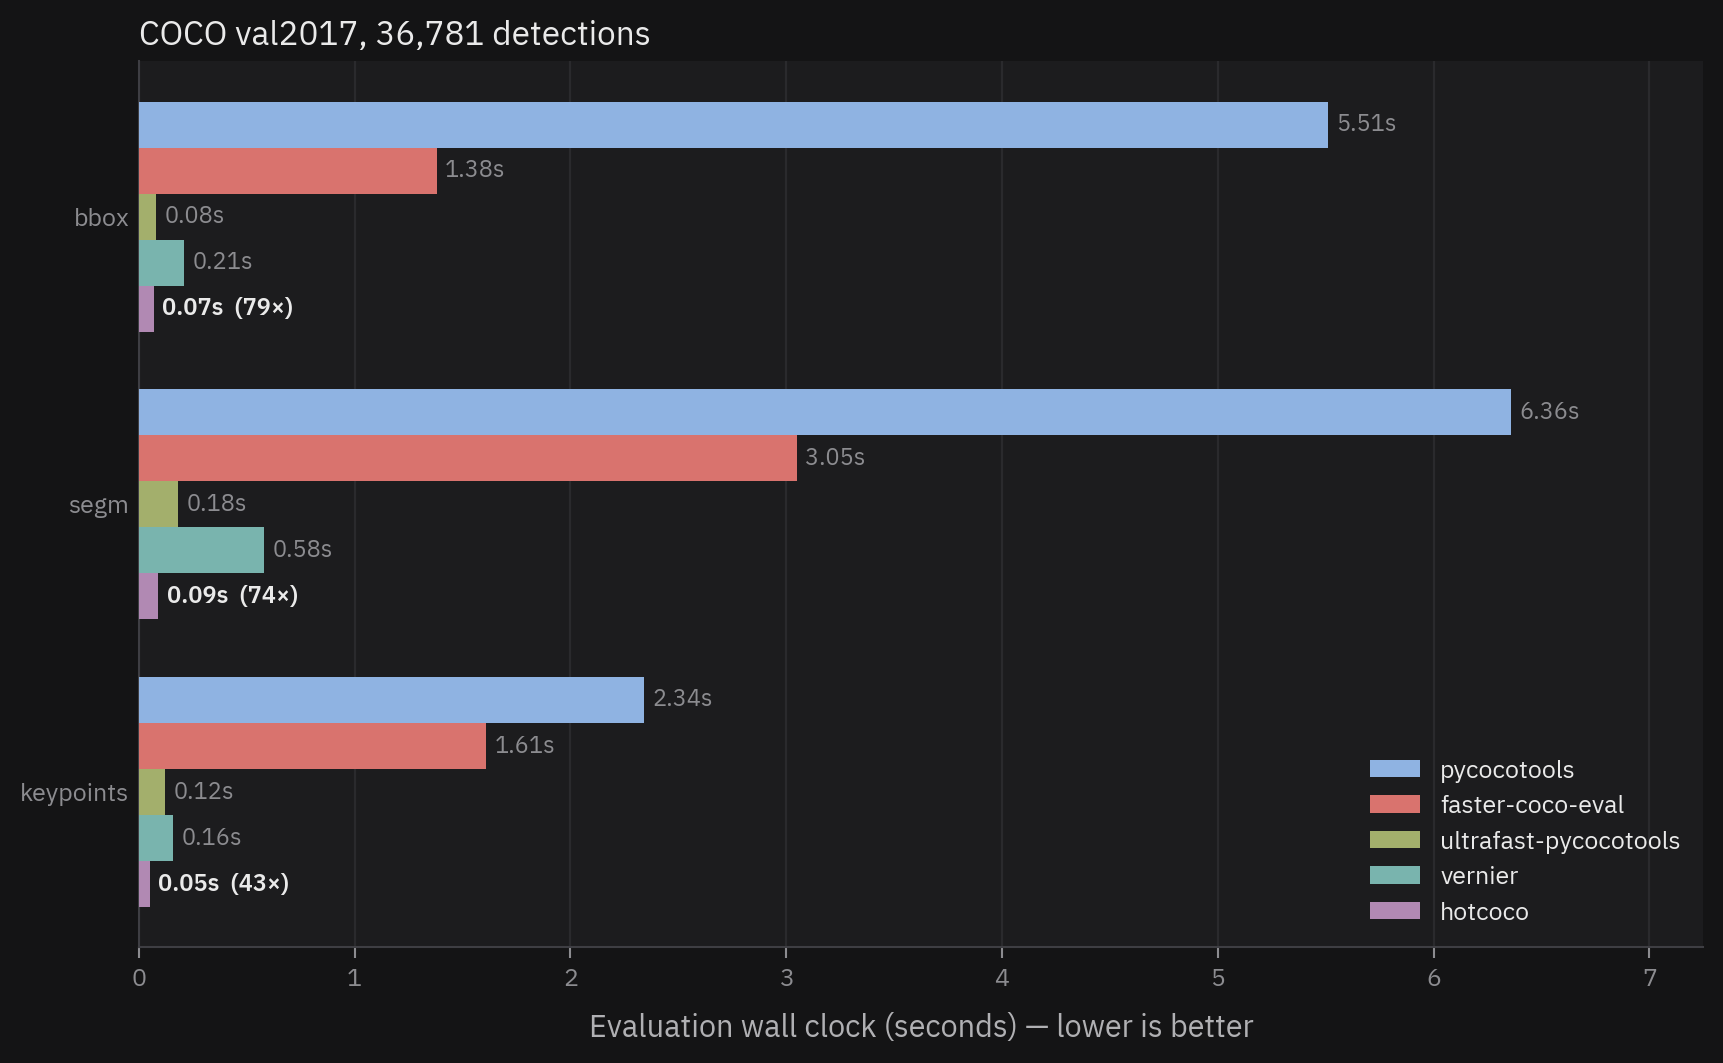
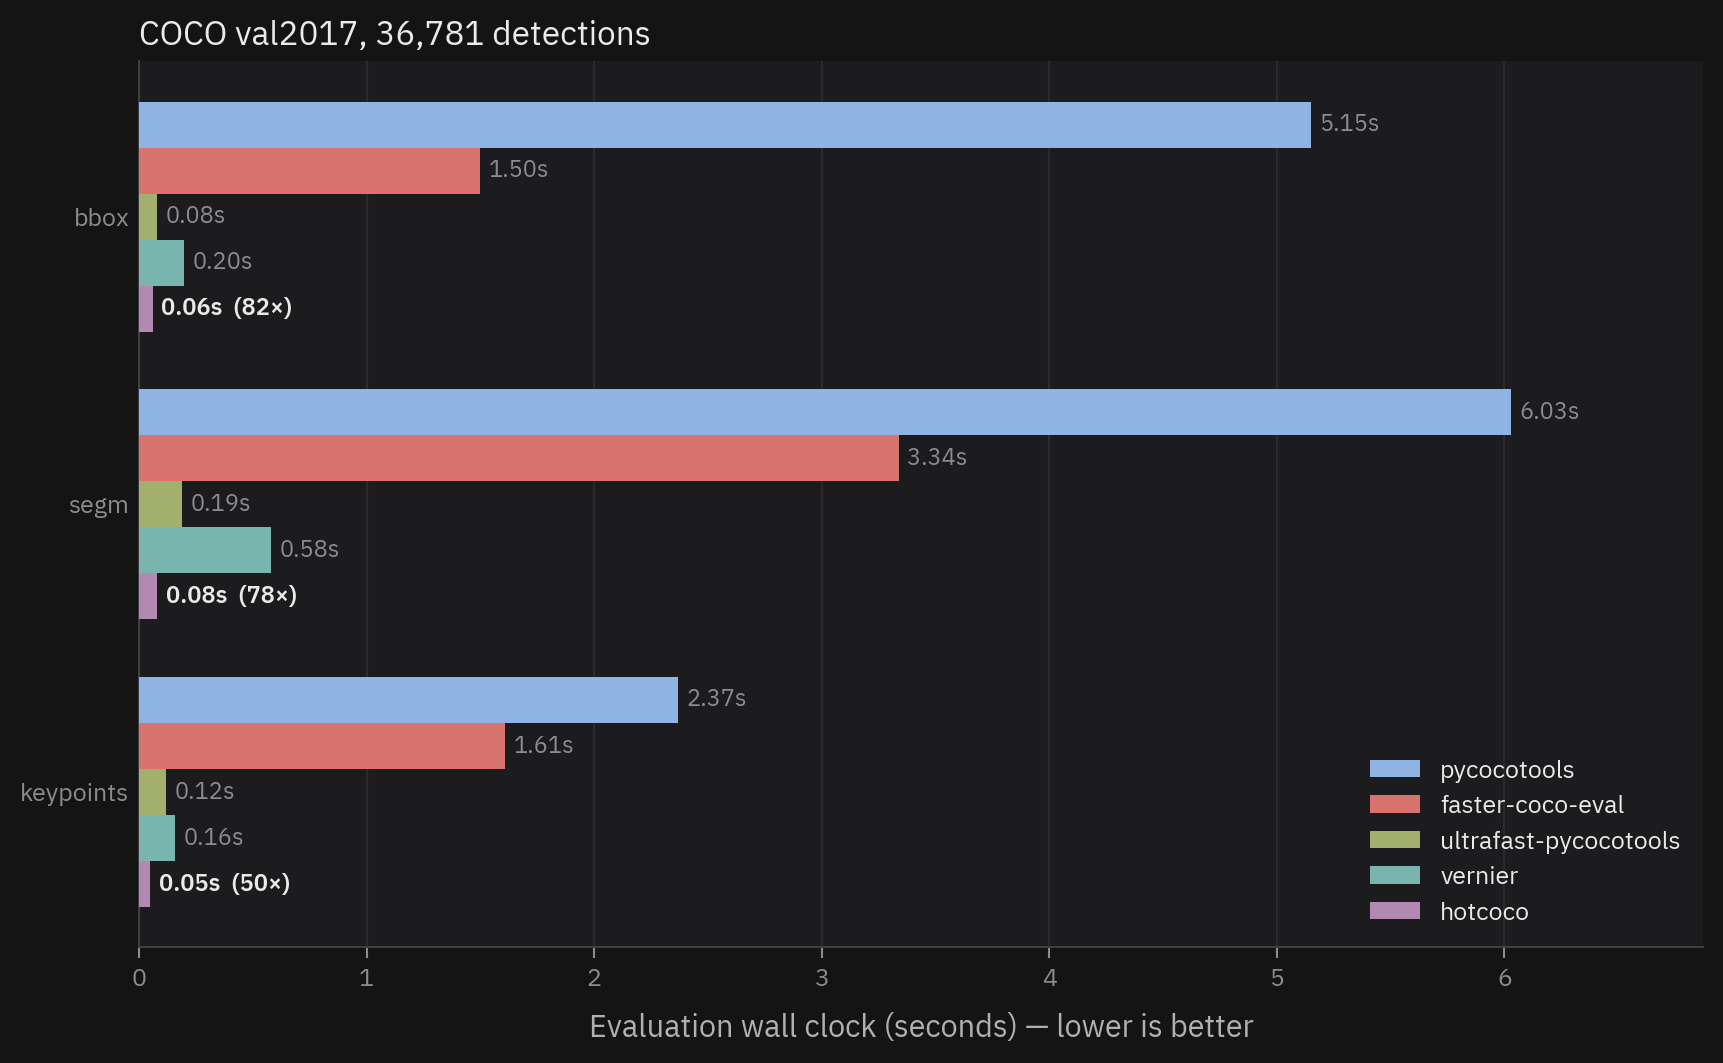
perf(load): size every loaded vector to what it holds
- `ExactVec` in types.rs reads polygons and `keypoints` through a per-thread
  buffer (`Vec::deserialize_in_place`) and stores them at exact capacity;
  the polygon list starts at one slot and shrinks to fit
- `parse_chunked` sizes the annotations vector from the run lengths before
  joining them instead of growing it by `extend`
- uncompressed-RLE run lists shrink to fit
- live heap after load vs the previous commit: val2017 GT 46 → 30 MB,
  bbox results 22 → 13 MB at 1× and 229 → 125 MB at 10×, segm 10× 307 → 224
- benchmark tables, chart data, and the "up to 82×" headline synced across
  docs, README, pyproject, zensical; the 10× memory paragraph now states that
  the peak is the parse transient

Claude-Session: https://claude.ai/code/session_0122uhTHqxEPRhN3cEZoSaaU

diff --git a/crates/hotcoco/src/types.rs b/crates/hotcoco/src/types.rs
@@ -88,7 +88,7 @@ pub struct Annotation {
     pub segmentation: Option<Segmentation>,
     #[serde(default, deserialize_with = "deserialize_flag")]
     pub iscrowd: bool,
-    #[serde(default)]
+    #[serde(default, deserialize_with = "deserialize_exact_opt")]
     pub keypoints: Option<Vec<f64>>,
     /// Count of labeled keypoints (visibility `> 0`). Optional in the wild;
     /// read it through [`Annotation::num_visible_keypoints`], which derives it
@@ -254,6 +254,36 @@ where
     Option::<Uint<T>>::deserialize(deserializer).map(|o| o.map(|u| u.0))
 }
 
+/// A `Vec<f64>` read from JSON with its capacity equal to its length.
+///
+/// serde cannot size a JSON array before reading it, so `Vec<f64>` grows by
+/// doubling and keeps the slack: a 51-value keypoint list holds 64 slots and
+/// val2017's polygons carry 8 MB of slack on 14 MB of coordinates. The
+/// values are read into a thread-local buffer and copied out at exact size.
+struct ExactVec(Vec<f64>);
+
+thread_local! {
+    static EXACT_SCRATCH: std::cell::RefCell<Vec<f64>> = const { std::cell::RefCell::new(Vec::new()) };
+}
+
+impl<'de> Deserialize<'de> for ExactVec {
+    fn deserialize<D: Deserializer<'de>>(deserializer: D) -> Result<Self, D::Error> {
+        EXACT_SCRATCH.with(|scratch| {
+            let mut buf = scratch.borrow_mut();
+            // Stable serde API, hidden from its docs: overwrites the existing
+            // elements, then truncates or pushes, keeping the capacity.
+            Vec::deserialize_in_place(deserializer, &mut buf)?;
+            Ok(ExactVec(buf.to_vec()))
+        })
+    }
+}
+
+fn deserialize_exact_opt<'de, D: Deserializer<'de>>(
+    deserializer: D,
+) -> Result<Option<Vec<f64>>, D::Error> {
+    Option::<ExactVec>::deserialize(deserializer).map(|o| o.map(|v| v.0))
+}
+
 /// Segmentation mask in one of three COCO formats.
 ///
 /// `#[serde(untagged)]` auto-detects the format when *serializing* (it just
@@ -342,6 +372,7 @@ impl<'de> Deserialize<'de> for Segmentation {
                         while let Some(c) = seq.next_element()? {
                             v.push(c);
                         }
+                        v.shrink_to_fit();
                         Ok(Counts::Ints(v))
                     }
                 }
@@ -361,10 +392,13 @@ impl<'de> Deserialize<'de> for Segmentation {
                 self,
                 mut seq: A,
             ) -> Result<Segmentation, A::Error> {
-                let mut polys = Vec::with_capacity(seq.size_hint().unwrap_or(0));
-                while let Some(p) = seq.next_element()? {
+                // Nearly every segmentation is one polygon, and the list is
+                // sized to what it holds like the polygons themselves.
+                let mut polys = Vec::with_capacity(seq.size_hint().unwrap_or(1));
+                while let Some(ExactVec(p)) = seq.next_element()? {
                     polys.push(p);
                 }
+                polys.shrink_to_fit();
                 Ok(Segmentation::Polygon(polys))
             }
 
@@ -523,5 +557,29 @@ mod tests {
             .polygons()
             .is_none()
         );
+    }
+
+    /// The per-record heap cost is the coordinates themselves, not serde's
+    /// growth slack: every parsed polygon and keypoint list is sized exactly.
+    #[test]
+    fn parsed_float_lists_carry_no_capacity_slack() {
+        let json = r#"{"image_id": 1, "category_id": 1,
+            "segmentation": [[0, 0, 5, 0, 5, 5, 0, 5, 2.5, 2.5], [1, 1, 2, 1, 2, 2]],
+            "keypoints": [1, 2, 2, 3, 4, 2, 5, 6, 0, 7, 8, 1, 9, 10, 2, 11, 12, 2, 13, 14, 1]}"#;
+        let ann: Annotation = serde_json::from_str(json).unwrap();
+        let Some(Segmentation::Polygon(polys)) = &ann.segmentation else {
+            panic!("expected polygons");
+        };
+        assert_eq!(polys.capacity(), 2);
+        assert_eq!(
+            polys[0],
+            vec![0.0, 0.0, 5.0, 0.0, 5.0, 5.0, 0.0, 5.0, 2.5, 2.5]
+        );
+        assert_eq!(polys[1].len(), 6);
+        assert!(polys.iter().all(|p| p.capacity() == p.len()));
+        let kpts = ann.keypoints.unwrap();
+        assert_eq!(kpts.len(), 21);
+        assert_eq!(kpts.capacity(), 21);
+        assert_eq!(kpts[2], 2.0);
     }
 }

diff --git a/crates/hotcoco/src/json.rs b/crates/hotcoco/src/json.rs
@@ -199,7 +199,21 @@ fn parse_chunked(bytes: &[u8], open: usize, chunks: usize) -> Option<(Vec<Annota
         .into_par_iter()
         .map(|i| parse_run(bytes, starts[i], starts.get(i + 1).copied()))
         .collect();
-    let mut out = Vec::new();
+    // Sized exactly: the vector outlives the parse as `Dataset::annotations`,
+    // and growing it by doubling would keep up to a run's worth of slack per
+    // doubling. Runs past the one that ends the array are not part of it.
+    let ends = runs
+        .iter()
+        .position(|run| !matches!(run, Run::Continues(_)))
+        .map_or(runs.len(), |i| i + 1);
+    let total: usize = runs[..ends]
+        .iter()
+        .map(|run| match run {
+            Run::Continues(anns) | Run::Ends(anns, _) => anns.len(),
+            Run::Failed => 0,
+        })
+        .sum();
+    let mut out = Vec::with_capacity(total);
     for run in runs {
         match run {
             Run::Continues(anns) => out.extend(anns),
@@ -449,6 +463,7 @@ mod tests {
         for chunks in 2..=50 {
             let (got, end) = parse_chunked(&bytes, 0, chunks).expect("clean array parses chunked");
             assert_eq!(json(&got), json(&expected), "chunks={chunks}");
+            assert_eq!(got.capacity(), got.len(), "chunks={chunks}");
             assert_eq!(skip_ws(&bytes, end), bytes.len(), "chunks={chunks}");
         }
     }

diff --git a/scripts/gen_docs_assets.py b/scripts/gen_docs_assets.py
@@ -61,21 +61,21 @@ DT = VAL2017["bbox"]["dt"]
 # Keep in sync with the "Results (1x detections)" table in docs/benchmarks.md.
 BENCH = {
     "bbox": {
-        "pycocotools": 5.51,
-        "faster-coco-eval": 1.38,
+        "pycocotools": 5.15,
+        "faster-coco-eval": 1.50,
         "ultrafast-pycocotools": 0.08,
-        "vernier": 0.21,
-        "hotcoco": 0.07,
+        "vernier": 0.20,
+        "hotcoco": 0.06,
     },
     "segm": {
-        "pycocotools": 6.36,
-        "faster-coco-eval": 3.05,
-        "ultrafast-pycocotools": 0.18,
+        "pycocotools": 6.03,
+        "faster-coco-eval": 3.34,
+        "ultrafast-pycocotools": 0.19,
         "vernier": 0.58,
-        "hotcoco": 0.09,
+        "hotcoco": 0.08,
     },
     "keypoints": {
-        "pycocotools": 2.34,
+        "pycocotools": 2.37,
         "faster-coco-eval": 1.61,
         "ultrafast-pycocotools": 0.12,
         "vernier": 0.16,
@@ -85,7 +85,7 @@ BENCH = {
 # hotcoco's speedup vs pycocotools, as the table states it: the median of the
 # per-run ratios, not a ratio of the two-decimal times above, which would round
 # a 0.134s median into a larger multiple than was measured.
-BENCH_SPEEDUP = {"bbox": 79.1, "segm": 73.7, "keypoints": 43.3}
+BENCH_SPEEDUP = {"bbox": 82.3, "segm": 78.2, "keypoints": 50.1}
 
 
 def benchmark_chart(out: Path, theme: str) -> None:

diff --git a/docs/benchmarks.md b/docs/benchmarks.md
@@ -41,7 +41,7 @@ drift between captures on this machine, so compare them only within a table; the
 speedup ratios are not affected. Peak memory is each process's own resident set.
 **Versions:** pycocotools 2.0.11, faster-coco-eval 1.7.2, ultrafast-pycocotools 0.1.11,
 vernier 0.5.4, hotcoco `main` (1.1 development: the lean `evaluate()`, `accumulate()`, and
-JSON loader, in-place ground-truth parse, flat index, shared-dataset, slimmer annotation record, and in-place `accumulate()` changes listed under `[Unreleased]`)
+JSON loader, in-place ground-truth parse, flat index, shared-dataset, slimmer annotation record, in-place `accumulate()`, and exact-size vector changes listed under `[Unreleased]`)
 
 ### Results (1x detections)
 
@@ -54,9 +54,9 @@ to pycocotools'. Chart drawn with <code>hotcoco.plot</code>.</figcaption>
 
 | Eval Type | pycocotools | faster-coco-eval | ultrafast-pycocotools | vernier | hotcoco |
 |-----------|-------------|------------------|-----------------------|---------|---------|
-| bbox      | 5.51s | 1.38s (4.0×) | 0.08s (65.7×) | 0.21s (26.0×) | **0.07s (79.1×)** |
-| segm      | 6.36s | 3.05s (2.1×) | 0.18s (35.3×) | 0.58s (10.9×) | **0.09s (73.7×)** |
-| keypoints | 2.34s | 1.61s (1.5×) | 0.12s (20.0×) | 0.16s (14.2×) | **0.05s (43.3×)** |
+| bbox      | 5.15s | 1.50s (3.4×) | 0.08s (63.6×) | 0.20s (25.3×) | **0.06s (82.3×)** |
+| segm      | 6.03s | 3.34s (1.8×) | 0.19s (32.4×) | 0.58s (10.4×) | **0.08s (78.2×)** |
+| keypoints | 2.37s | 1.61s (1.5×) | 0.12s (20.6×) | 0.16s (14.7×) | **0.05s (50.1×)** |
 
 Speedups in parentheses are vs pycocotools.
 
@@ -64,12 +64,12 @@ Peak resident memory, same runs (MB):
 
 | Eval Type | pycocotools | faster-coco-eval | ultrafast-pycocotools | vernier | hotcoco |
 |-----------|-------------|------------------|-----------------------|---------|---------|
-| bbox      | 663 | 627 | 92 | 173 | 156 |
-| segm      | 660 | 692 | 113 | 200 | 171 |
-| keypoints | 292 | 306 | 107 | 146 | 145 |
+| bbox      | 626 | 547 | 93 | 173 | 148 |
+| segm      | 623 | 598 | 114 | 200 | 164 |
+| keypoints | 267 | 306 | 107 | 146 | 131 |
 
-The three Rust engines are in one speed class, 11–79× ahead of pycocotools, and
-hotcoco is fastest on every row. On memory it matches vernier and sits 1.4–1.7×
+The three Rust engines are in one speed class, 10–82× ahead of pycocotools, and
+hotcoco is fastest on every row. On memory it sits below vernier and 1.2–1.6×
 above ultrafast-pycocotools, which parses detections straight into columnar
 arrays while hotcoco materializes one annotation record per detection.
 
@@ -79,24 +79,24 @@ Scaling detections by 10x (~368,000) to test behavior under higher load:
 
 | Eval Type | pycocotools | faster-coco-eval | ultrafast-pycocotools | vernier | hotcoco |
 |-----------|-------------|------------------|-----------------------|---------|---------|
-| bbox      | 25.37s | 4.51s (5.6×) | 0.30s (85.7×) | 0.91s (27.9×) | **0.26s (99.1×)** |
-| segm      | 27.89s | 8.82s (3.2×) | 0.69s (40.4×) | 1.82s (15.3×) | **0.38s (74.1×)** |
-| keypoints | 10.21s | 8.58s (1.2×) | 0.69s (14.8×) | 0.95s (10.7×) | **0.33s (31.0×)** |
+| bbox      | 25.90s | 4.33s (6.0×) | 0.28s (90.9×) | 0.89s (29.1×) | **0.24s (107.3×)** |
+| segm      | 25.62s | 8.19s (3.1×) | 0.66s (38.9×) | 1.75s (14.7×) | **0.35s (72.4×)** |
+| keypoints | 9.77s | 8.44s (1.2×) | 0.68s (14.4×) | 0.99s (9.9×) | **0.28s (34.5×)** |
 
 Peak resident memory, same runs (MB):
 
 | Eval Type | pycocotools | faster-coco-eval | ultrafast-pycocotools | vernier | hotcoco |
 |-----------|-------------|------------------|-----------------------|---------|---------|
-| bbox      | 1321 | 948 | 191 | 558 | 431 |
-| segm      | 1464 | 1189 | 376 | 838 | 720 |
-| keypoints | 1077 | 1054 | 471 | 704 | 751 |
+| bbox      | 1418 | 1134 | 193 | 558 | 425 |
+| segm      | 1719 | 1396 | 377 | 860 | 715 |
+| keypoints | 1234 | 1070 | 471 | 704 | 727 |
 
-At this scale the per-detection record shows: hotcoco holds about 210 bytes per
-detection, so its peak is 1.6–2.3× ultrafast-pycocotools' and below vernier's.
-JSON parsing itself does not add to the peak — the loader streams into the
-records and parses the annotations array on all cores, and the evaluator shares
-the datasets rather than copying them, so the file plus the records is the whole
-cost.
+At this scale the peak is set while the results file is being parsed: the file
+bytes, the records each parallel run produces, and the vector they are joined
+into all exist at once, so the peak is 1.5–2.2× ultrafast-pycocotools' and close
+to vernier's. Once loaded, hotcoco holds about 210 bytes per detection with no
+slack around it, and the evaluator shares the datasets rather than copying
+them.
 
 Absolute times stay under 0.5s at 368,000 detections, and hotcoco is fastest on
 every row.
@@ -110,16 +110,16 @@ time (same protocol, same synthetic detections as the 1× table):
 
 | Eval type | Phase | pycocotools | faster-coco-eval | ultrafast-pycocotools | vernier | hotcoco |
 |-----------|-------|-------------|------------------|-----------------------|---------|---------|
-| bbox      | load  | 0.32s | 0.33s (1.0×) | 0.06s (5.6×) | 0.09s (3.7×) | **0.03s (10.7×)** |
-|           | eval  | 4.95s | 1.12s (4.4×) | 0.03s (194.8×) | 0.12s (41.1×) | **0.04s (137.2×)** |
-| segm      | load  | 0.34s | 0.34s (1.0×) | 0.06s (5.3×) | 0.09s (3.8×) | **0.04s (8.8×)** |
-|           | eval  | 5.84s | 2.74s (2.1×) | 0.11s (51.3×) | 0.49s (11.8×) | **0.05s (126.8×)** |
-| keypoints | load  | 0.50s | 0.50s (1.0×) | 0.07s (7.2×) | 0.05s (10.6×) | **0.04s (12.8×)** |
-|           | eval  | 1.86s | 1.11s (1.7×) | 0.05s (39.8×) | 0.12s (16.1×) | **0.01s (127.2×)** |
-| bbox, bbox-only GT | load | 0.16s | 0.16s (1.0×) | 0.04s (4.5×) | 0.02s (7.2×) | **0.02s (8.4×)** |
-|           | eval  | 5.08s | 1.00s (5.1×) | 0.03s (199.2×) | 0.12s (42.2×) | **0.04s (137.7×)** |
+| bbox      | load  | 0.31s | 0.31s (1.0×) | 0.06s (5.5×) | 0.09s (3.6×) | **0.03s (11.7×)** |
+|           | eval  | 4.70s | 1.04s (4.5×) | 0.03s (181.7×) | 0.12s (38.9×) | **0.03s (135.1×)** |
+| segm      | load  | 0.34s | 0.34s (1.0×) | 0.06s (5.3×) | 0.09s (3.8×) | **0.03s (10.0×)** |
+|           | eval  | 5.55s | 2.67s (2.1×) | 0.11s (48.5×) | 0.48s (11.5×) | **0.04s (126.7×)** |
+| keypoints | load  | 0.49s | 0.49s (1.0×) | 0.07s (7.1×) | 0.05s (10.5×) | **0.03s (15.0×)** |
+|           | eval  | 1.83s | 1.11s (1.6×) | 0.05s (38.5×) | 0.12s (15.6×) | **0.01s (124.2×)** |
+| bbox, bbox-only GT | load | 0.16s | 0.16s (1.0×) | 0.04s (4.4×) | 0.02s (7.0×) | **0.02s (8.5×)** |
+|           | eval  | 4.56s | 1.04s (4.4×) | 0.03s (181.0×) | 0.12s (38.2×) | **0.04s (117.4×)** |
 
-The evaluation engine itself is 127–138× faster than pycocotools; the end-to-end
+The evaluation engine itself is 117–135× faster than pycocotools; the end-to-end
 headline is lower because loading, which no library can speed up by much more
 than 10×, is a large share of hotcoco's total.
 

diff --git a/CHANGELOG.md b/CHANGELOG.md
@@ -16,6 +16,20 @@ and this project adheres to [Semantic Versioning](https://semver.org/).
 
 ### Changed
 
+- **Loaded vectors are sized to what they hold.** serde cannot size a JSON
+  array before reading it, so every `Vec` grew by doubling and kept the
+  slack: a 51-value keypoint list held 64 slots, val2017's polygons carried
+  8 MB of slack on 14 MB of coordinates plus a four-slot list around nearly
+  every single polygon, and the annotations vector itself, assembled from the
+  parallel parse runs, kept up to a run's worth of slack per doubling. Polygons
+  and keypoints are now read through a per-thread buffer and stored at exact
+  size, and the annotations vector is sized from the runs before they are
+  joined. `COCO()` on val2017 keeps 30 MB instead of 46 MB and parses faster
+  with fewer reallocations; `load_res` keeps 13 MB instead of 22 MB on
+  val2017's bbox results, 125 MB instead of 229 MB at ten times that, and
+  224 MB instead of 307 MB on ten times the segm results. Values are
+  unchanged.
+
 - **`accumulate()` writes its output arrays in place.** Each (category, area
   range) work item staged its writes as index-value lists sized for the whole
   M × T × R slab, about 96 KB per item, and a serial merge copied them into

diff --git a/README.md b/README.md
@@ -5,7 +5,7 @@
 [![Crates.io](https://img.shields.io/crates/v/hotcoco)](https://crates.io/crates/hotcoco)
 [![License: MIT](https://img.shields.io/badge/License-MIT-yellow.svg)](LICENSE)
 
-**hotcoco is a perception evaluation toolkit, written in Rust with Python bindings.** It's a drop-in replacement for [pycocotools](https://github.com/ppwwyyxx/cocoapi) — same numbers to double precision, up to 79× faster — plus the analysis that usually lives in separate tools: TIDE error analysis, confusion matrices, confidence calibration, model comparison, label-error detection, and a dataset browser.
+**hotcoco is a perception evaluation toolkit, written in Rust with Python bindings.** It's a drop-in replacement for [pycocotools](https://github.com/ppwwyyxx/cocoapi) — same numbers to double precision, up to 82× faster — plus the analysis that usually lives in separate tools: TIDE error analysis, confusion matrices, confidence calibration, model comparison, label-error detection, and a dataset browser.
 
 It covers detection today — boxes, masks, keypoints, and oriented boxes on the COCO, LVIS, and Open Images protocols. Panoptic and tracking are planned, on the same engine.
 

diff --git a/docs/index.md b/docs/index.md
@@ -13,7 +13,7 @@ Perception evaluation for Python, written in Rust.
 </p>
 
 <p class="hero-sub">
-hotcoco evaluates perception models, starting with detection: boxes, masks, keypoints, and oriented boxes on the COCO, LVIS, and Open Images protocols. It's a drop-in replacement for pycocotools — same numbers to double precision, up to 79× faster — and it includes the analysis you'd otherwise need separate tools for: TIDE error analysis, confusion matrices, calibration, model comparison, and a dataset browser.
+hotcoco evaluates perception models, starting with detection: boxes, masks, keypoints, and oriented boxes on the COCO, LVIS, and Open Images protocols. It's a drop-in replacement for pycocotools — same numbers to double precision, up to 82× faster — and it includes the analysis you'd otherwise need separate tools for: TIDE error analysis, confusion matrices, calibration, model comparison, and a dataset browser.
 </p>
 
 <div class="hero-actions" markdown>
